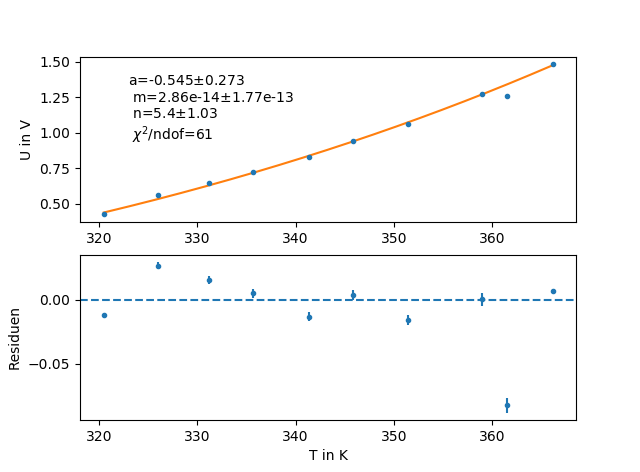
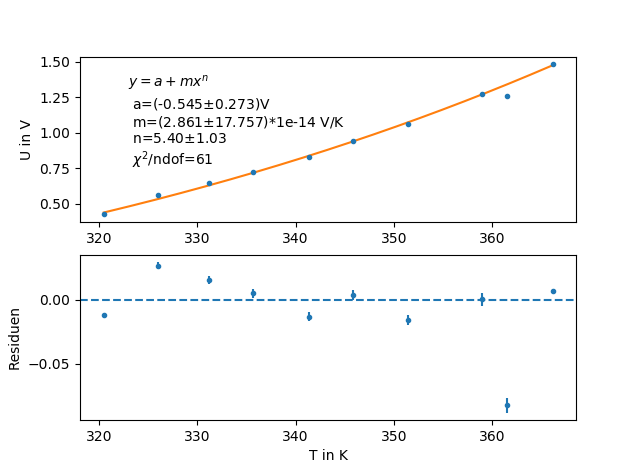
bilder

Changed region(s): [[0.1875, 0.1483, 0.5312, 0.3559]]

diff --git a/grundpraktikum2/Atomphysik/Python/A/nichtlinear.py b/grundpraktikum2/Atomphysik/Python/A/nichtlinear.py
@@ -77,9 +77,9 @@ def main():
     xwerte = np.linspace(T[0],T[-1],1000)
     ywerte = func(xwerte,a,b,c)
     plt.plot(xwerte,ywerte)
-    plt.figtext(0.2,0.7,'a={0:.3g}$\pm${1:.3g} \n m={2:.3g}$\pm${3:.3g} \n n={4:.2f}$\pm${5:.2f} \n $\chi^2$/ndof={6:.3g}'
-                .format(a,ea,b,eb,c,ec,chi))
-    print c
+    plt.figtext(0.2,0.65,'$y = a + m x^n$ \n a=({0:.3g}$\pm${1:.3g})V \n m=({2:1.3f}$\pm${3:1.3f})*1e-14 V/K \n n={4:1.2f}$\pm${5:1.2f} \n $\chi^2$/ndof={6:1.3g}'
+                .format(a,ea,b*1e14,eb*1e14,c,ec,chi))
+    print ec
     ax2=plt.subplot(212,sharex=ax1)
     plt.xlabel('T in K')
     plt.ylabel('Residuen')

diff --git a/grundpraktikum2/Atomphysik/Python/A/Histogramme.py b/grundpraktikum2/Atomphysik/Python/A/Histogramme.py
@@ -9,7 +9,6 @@ import numpy as np
 import matplotlib.pyplot as plt
 import Praktikum as p
 import scipy.optimize as opt
-import untitled0 as seb
 
 def einlesen(string):
     Messing1=p.lese_lab_datei(string + '/mes50.lab')
